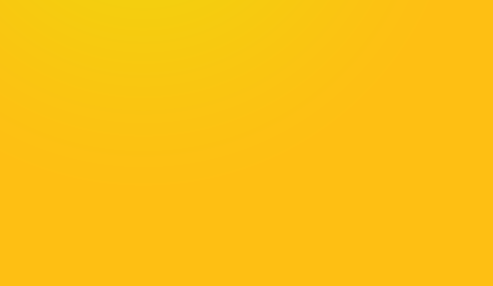
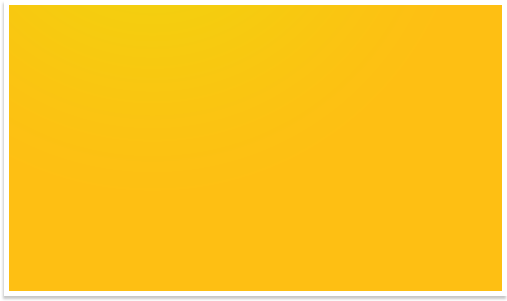
Agregado el login del profesor, la busqueda de estudiantes y mejoras en las vistas.

Changed region(s): [[0.0, 0.0, 1.0, 1.0]]

diff --git a/registroEstudiantil/vista/css/estilos.css b/registroEstudiantil/vista/css/estilos.css
@@ -118,7 +118,7 @@ main{
 }
 .pie2{
     background-color: #E4E4E4;
-    width: 1180px;
+    width: 100%;
     height: 88px;
     top: 690px;
     left: 0px;
@@ -209,21 +209,16 @@ main{
 }
 /**Para el cambio de clave*/
 .cambioClave{
-    width: 493px;
-    height: 286px;
+    width: 507px;
+    height: 301px;
     position: absolute;
     top: 307px;
-    left: calc(50% - 221px);
+    left: calc(50% - 253px);
     margin-left: auto;
     margin-right: auto;
-    border: 5px;
-    border-style: solid;
-    border-color: #FFFFFF;
     background-image: url(../img/CambioClave-Profesor.png);
     background-repeat: no-repeat;
     z-index: 1;
-    -webkit-box-shadow: 0px 2px #C7C7C7;
-    box-shadow: 0px 2px #C7C7C7;
 }
 /***/
 .cAnterior{
@@ -909,4 +904,28 @@ main{
     left: 536px;
     top: 257px;
     z-index: 2;
+}
+/**Para la busqueda*/
+.buscar{
+    width: 256px;
+    height: 26px;
+    position: absolute;
+    top: 250px;
+    right: 68px;
+}
+/**Para el boton de busqueda*/
+.botonBuscar{
+    width: 25px;
+    height: 25px;
+    position: absolute;
+    top: 250px;
+    right: 39px;
+}
+/**Para el boton de cambiar la clave*/
+.botonModificarClave{
+    width: 256px;
+    height: 26px;
+    position: absolute;
+    top: 250px;
+    left: 68px;
 }

diff --git a/registroEstudiantil/vista/formCambioClave.html b/registroEstudiantil/vista/formCambioClave.html
@@ -17,12 +17,10 @@ and open the template in the editor.
         </script>
     </head>
     <body>
+        <div class="logo"></div>
+        <div class="barra"></div>
+        <div class="barra2"></div>
         <div class="container">
-            <header>
-                <div class="logo"></div>
-                <div class="barra"></div>
-                <div class="barra2"></div>
-            </header>
             <main>
                 <form name="formularioCambioClave" class="cambioClave">
                     <div class="texto1">Cambio de clave de ingreso</div>
@@ -34,9 +32,9 @@ and open the template in the editor.
                     <input type="password" name="confirmarclave" value="" class="cConfirmar"/>
                     <img src="img/aceptar.png" alt="aceptar" class="botonAceptar2" onclick='enviarDatos()'/>
                 </form>
-                <div class="pie"></div>
-                <div class="logo2"></div>
             </main>
         </div>
+        <div class="pie2"></div>
+        <div class="logo2"></div>
     </body>
 </html>

diff --git a/registroEstudiantil/vista/ingresarCI.html b/registroEstudiantil/vista/ingresarCI.html
@@ -17,12 +17,10 @@ and open the template in the editor.
         </script>
     </head>
     <body>
+        <div class="logo"></div>
+        <div class="barra"></div>
+        <div class="barra2"></div>
         <div class="container">
-            <header>
-                <div class="logo"></div>
-                <div class="barra"></div>
-                <div class="barra2"></div>
-            </header>
             <main>
                 <div class="ingresarCedula">
                     <form action="../controlador/FrontController.php?action=validarCI" name="formularioCedula" method="post">
@@ -30,9 +28,9 @@ and open the template in the editor.
                         <img src="img/aceptar.png" alt="aceptar" class="botonAceptar" onclick='enviarDatos()'/>
                     </form>
                 </div>
-                <div class="pie"></div>
-                <div class="logo2"></div>
             </main>
         </div>
+        <div class="pie2"></div>
+        <div class="logo2"></div>
     </body>
 </html>

diff --git a/registroEstudiantil/vista/errorBD.html b/registroEstudiantil/vista/errorBD.html
@@ -11,19 +11,17 @@ and open the template in the editor.
         <link href="css/estilos.css" rel="stylesheet" type="text/css">
     </head>
     <body>
+        <div class="logo"></div>
+        <div class="barra"></div>
+        <div class="barra2"></div>
         <div class="container">
-            <header>
-                <div class="logo"></div>
-                <div class="barra"></div>
-                <div class="barra2"></div>
-            </header>
             <main>
                 <div class="errorBaseDatos">
                     <a href="../vista/ingresarCI.html" class="enlace1">Ir al inicio</a>
                 </div>
-                <div class="pie"></div>
-                <div class="logo2"></div>
             </main>
         </div>
+        <div class="pie2"></div>
+        <div class="logo2"></div>
     </body>
 </html>

diff --git a/registroEstudiantil/vista/errorLogin.html b/registroEstudiantil/vista/errorLogin.html
@@ -8,19 +8,17 @@
         <link href="css/estilos.css" rel="stylesheet" type="text/css">
     </head>
     <body>
+        <div class="logo"></div>
+        <div class="barra"></div>
+        <div class="barra2"></div>
         <div class="container">
-            <header>
-                <div class="logo"></div>
-                <div class="barra"></div>
-                <div class="barra2"></div>
-            </header>
             <main>
                 <div class="errorLogin">
                     <a href="formLogin.php" class="enlace1">Ir al inicio</a>
                 </div>
-                <div class="pie"></div>
-                <div class="logo2"></div>
             </main>
         </div>
+        <div class="pie2"></div>
+        <div class="logo2"></div>
     </body>
 </html>

diff --git a/registroEstudiantil/controlador/BackController.php b/registroEstudiantil/controlador/BackController.php
@@ -172,9 +172,48 @@ class BackController {
      */
     public function ctrlBusquedaEstudiante($criterio){
         $modelo = new Model();
-        $this->estadoConsulta = $modelo->mdlBusquedaNombreEstudiantes($criterio);
+        $password = $_SESSION['login'];
+        $this->resultadoLogin = $modelo->mdlValidarLogin($password);
+        if($this->resultadoLogin){
+            $this->estadoConsulta = $modelo->mdlBusquedaNombreEstudiantes($criterio);
+            session_start();
+            if($this->estadoConsulta){
+                $this->nombresEstudiantes = $modelo->mdlBusquedaNombreEstudiantes($criterio);
+                $this->apellidosEstudiantes = $modelo->mdlBusquedaApellidosEstudiantes($criterio);
+                $this->cedulaEstudiantes = $modelo->mdlBusquedaCedulaEstudiantes($criterio);
+                $this->lugarTrabajoEstudiantes = $modelo->mdlBusquedaLugarTrabajoEstudiantes($criterio);
+                $this->cargoTrabajoEstudiantes = $modelo->mdlBusquedaCargoTrabajoEstudiantes($criterio);
+                $_SESSION['nombresEstudiantes'] = $this->nombresEstudiantes;
+                $_SESSION['apellidosEstudiantes'] = $this->apellidosEstudiantes;
+                $_SESSION['cedulaEstudiantes'] = $this->cedulaEstudiantes;
+                $_SESSION['lugarTrabajoEstudiantes'] = $this->lugarTrabajoEstudiantes;
+                $_SESSION['cargoTrabajoEstudiantes'] = $this->cargoTrabajoEstudiantes;
+                header("Location: ../vista/resultadoBusqueda.php");
+            }
+            else{
+                header("Location: ../vista/errorBD.html?action=error");
+            }
+        }
+        else{
+            header("Location: ../vista/errorLogin.html");
+        }
+    }
+    /**Este método valida el login del profesor y regresa verdadero si es 
+     * correcta la clave, sino regresa nulo.
+     * @param $password Tipo String, almacena la clave a verificar.
+     * @return regresa verdadero si es correcta la clave, sino regresa nulo.
+     */
+    public function ctrlValidarLogin($password){
+        $modelo = new Model();
+        $this->resultadoLogin = $modelo->mdlValidarLogin($password);
         session_start();
-        if($this->estadoConsulta){}
-        else {}
+        if($this->resultadoLogin){
+            $_SESSION['login'] = TRUE;
+            header("Location: ../controlador/FrontController.php?action=busqueda&crierio=''");
+        }
+        else {
+            $_SESSION['login'] = FALSE;
+            header("Location: ../vista/errorLogin.html");
+        }
     }
 }

diff --git a/registroEstudiantil/vista/formLogin.php b/registroEstudiantil/vista/formLogin.php
@@ -14,30 +14,24 @@
         </script>
     </head>
     <body>
+        <div class="logo"></div>
+        <div class="barra"></div>
+        <div class="barra2"></div>
         <div class="container">
-            <header>
-                <div class="logo"></div>
-                <div class="barra"></div>
-                <div class="barra2"></div>
-            </header>
             <main>
-                <?php
-                    session_start();
-                    $GET_SESSION['action']="";
-                ?>
                 <div class="capaLogin">
-                    <form action="" name="formularioLogin" method="get">
+                    <form action="" name="formularioLogin?action=login" method="post">
                         <div class="bienvenida">Bienvenido(a) Profesor(a)
                             <br> 
                             Ingrese su clave de ingreso
                         </div>
-                        <input type="password" name="clave" value="" class="clave"/>
+                        <input type="password" name="password" value="" class="clave"/>
                         <img src="img/aceptar.png" alt="aceptar" class="botonAceptar" onclick='enviarDatos()'/>
                     </form>
                 </div>
-                <div class="pie"></div>
-                <div class="logo2"></div>
             </main>
         </div>
+        <div class="pie2"></div>
+        <div class="logo2"></div>
     </body>
 </html>

diff --git a/registroEstudiantil/modelo/Model.php b/registroEstudiantil/modelo/Model.php
@@ -96,6 +96,28 @@ class Model {
         }
         return $datos;
     }
+    /**Este método devolverá las cedulas de los estudiantes desde la tabla 
+     * “estudiantes”, tomando en cuenta que el parámetro enviado “criterio”
+     * coincida parcialmente con todos los campos  de la tabla en la BD.*/
+    public function mdlBusquedaCedulaEstudiantes($criterio){
+        $BD = new BaseDatos();
+        $query = "select cedulaEstudiante from estudiantes where "
+                ."cedulaEstudiante like '%".$criterio."%' nombres like '%"
+                .$criterio."%' or apellidos like '%".$criterio."%' or direccion"
+                ." like '%".$criterio."%' or telefono like '%".$criterio."%' or "
+                ."email like '%".$criterio."%' or fechaNacimiento like '%"
+                .$criterio."%' or lugarNacimiento like '%".$criterio."%' or "
+                ."lugarTrabajo like '%".$criterio."%' or cargoTrabajo like '%"
+                .$criterio."%' or rutaFoto like '%".$criterio."%'";
+        $resultado = $BD->modelQueryDB($query);
+        if($resultado->num_rows > 0){
+            $datos = $BD->modelConvertirEnArray($resultado);
+        }
+        else {
+            $datos = NULL;
+        }
+        return $datos;
+    }
     /**Agrega por primera vez los datos de un estudiante, la ruta de la foto 
      * debe ser aleatoria.
      */

diff --git a/registroEstudiantil/vista/resultadoBusqueda.php b/registroEstudiantil/vista/resultadoBusqueda.php
@@ -1,0 +1,31 @@
+<!DOCTYPE html>
+<!--
+To change this license header, choose License Headers in Project Properties.
+To change this template file, choose Tools | Templates
+and open the template in the editor.
+-->
+<html>
+    <head>
+        <meta charset="UTF-8">
+        <title>Busqueda</title>
+    </head>
+    <body>
+        <div class="logo"></div>
+        <div class="barra"></div>
+        <div class="barra2"></div>
+        <div class="container">
+            <main>
+                <form name="formularioBuscar" action="../controlador/FrontController.php?action=busqueda" method="POST">
+                    <input type="text" name="criterio" value="Escriba aquí palabra clave de busqueda" class="buscar" />
+                    <img src="img/buscar.png" width="25" height="25" alt="buscar" class="botonBuscar"/>
+                    <img src="img/modificarClave.png" width="225" height="27" alt="modificarClave"/>
+                </form>
+                <?php
+                // crea la tabla con el resultado
+                ?>
+            </main>
+        </div>
+        <div class="pie2"></div>
+        <div class="logo2"></div>
+    </body>
+</html>

diff --git a/registroEstudiantil/controlador/FrontController.php b/registroEstudiantil/controlador/FrontController.php
@@ -59,6 +59,14 @@ switch ($action){
                 $apellido, $direccion, $telefono, $email, $fechaNacimiento, 
                 $lugarNacimiento, $lugarTrabajo, $cargoTrabajo, $foto);
         break;
+    case 'login':
+        $password = $_POST['password'];
+        $back->ctrlValidarLogin($password);
+        break;
+    case 'busqueda':
+        $criterio = $_POST['crierio'];
+        $back->ctrlBusquedaEstudiante($criterio);
+        break;
     default :
         echo "<h1>Error</h1>";
         break;

diff --git a/registroEstudiantil/login.php b/registroEstudiantil/login.php
@@ -1,0 +1,12 @@
+<!DOCTYPE html>
+<html>
+    <head>
+        <meta charset="UTF-8">
+        <title>Login</title>
+    </head>
+    <body>
+        <?php
+            header("Location: ../vista/formLogin.php");
+        ?>
+    </body>
+</html>
